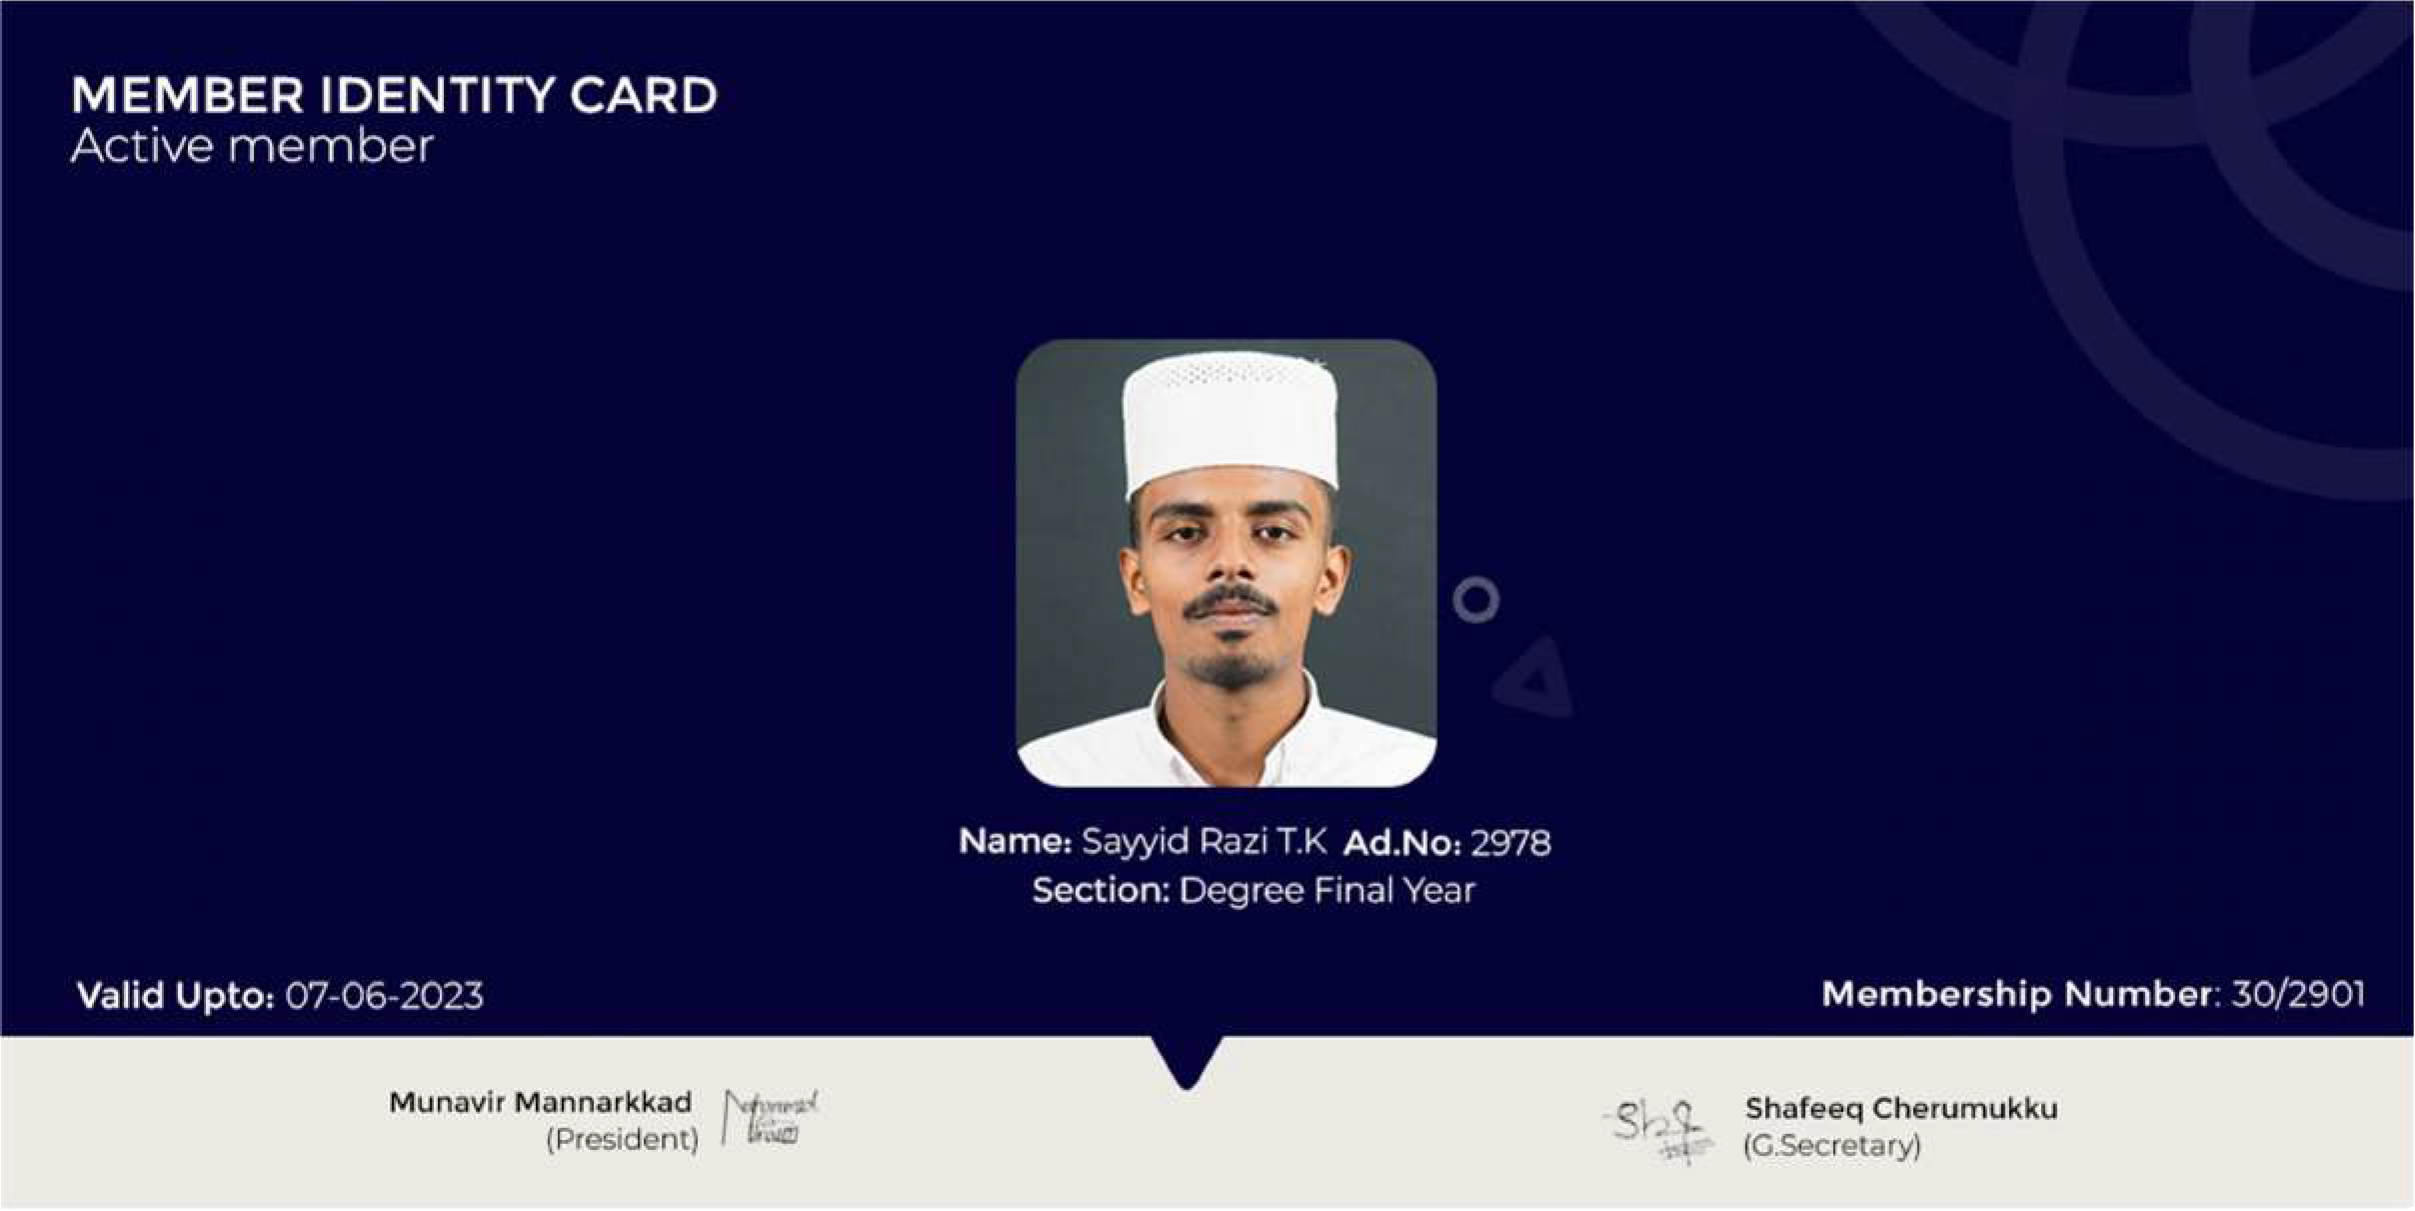
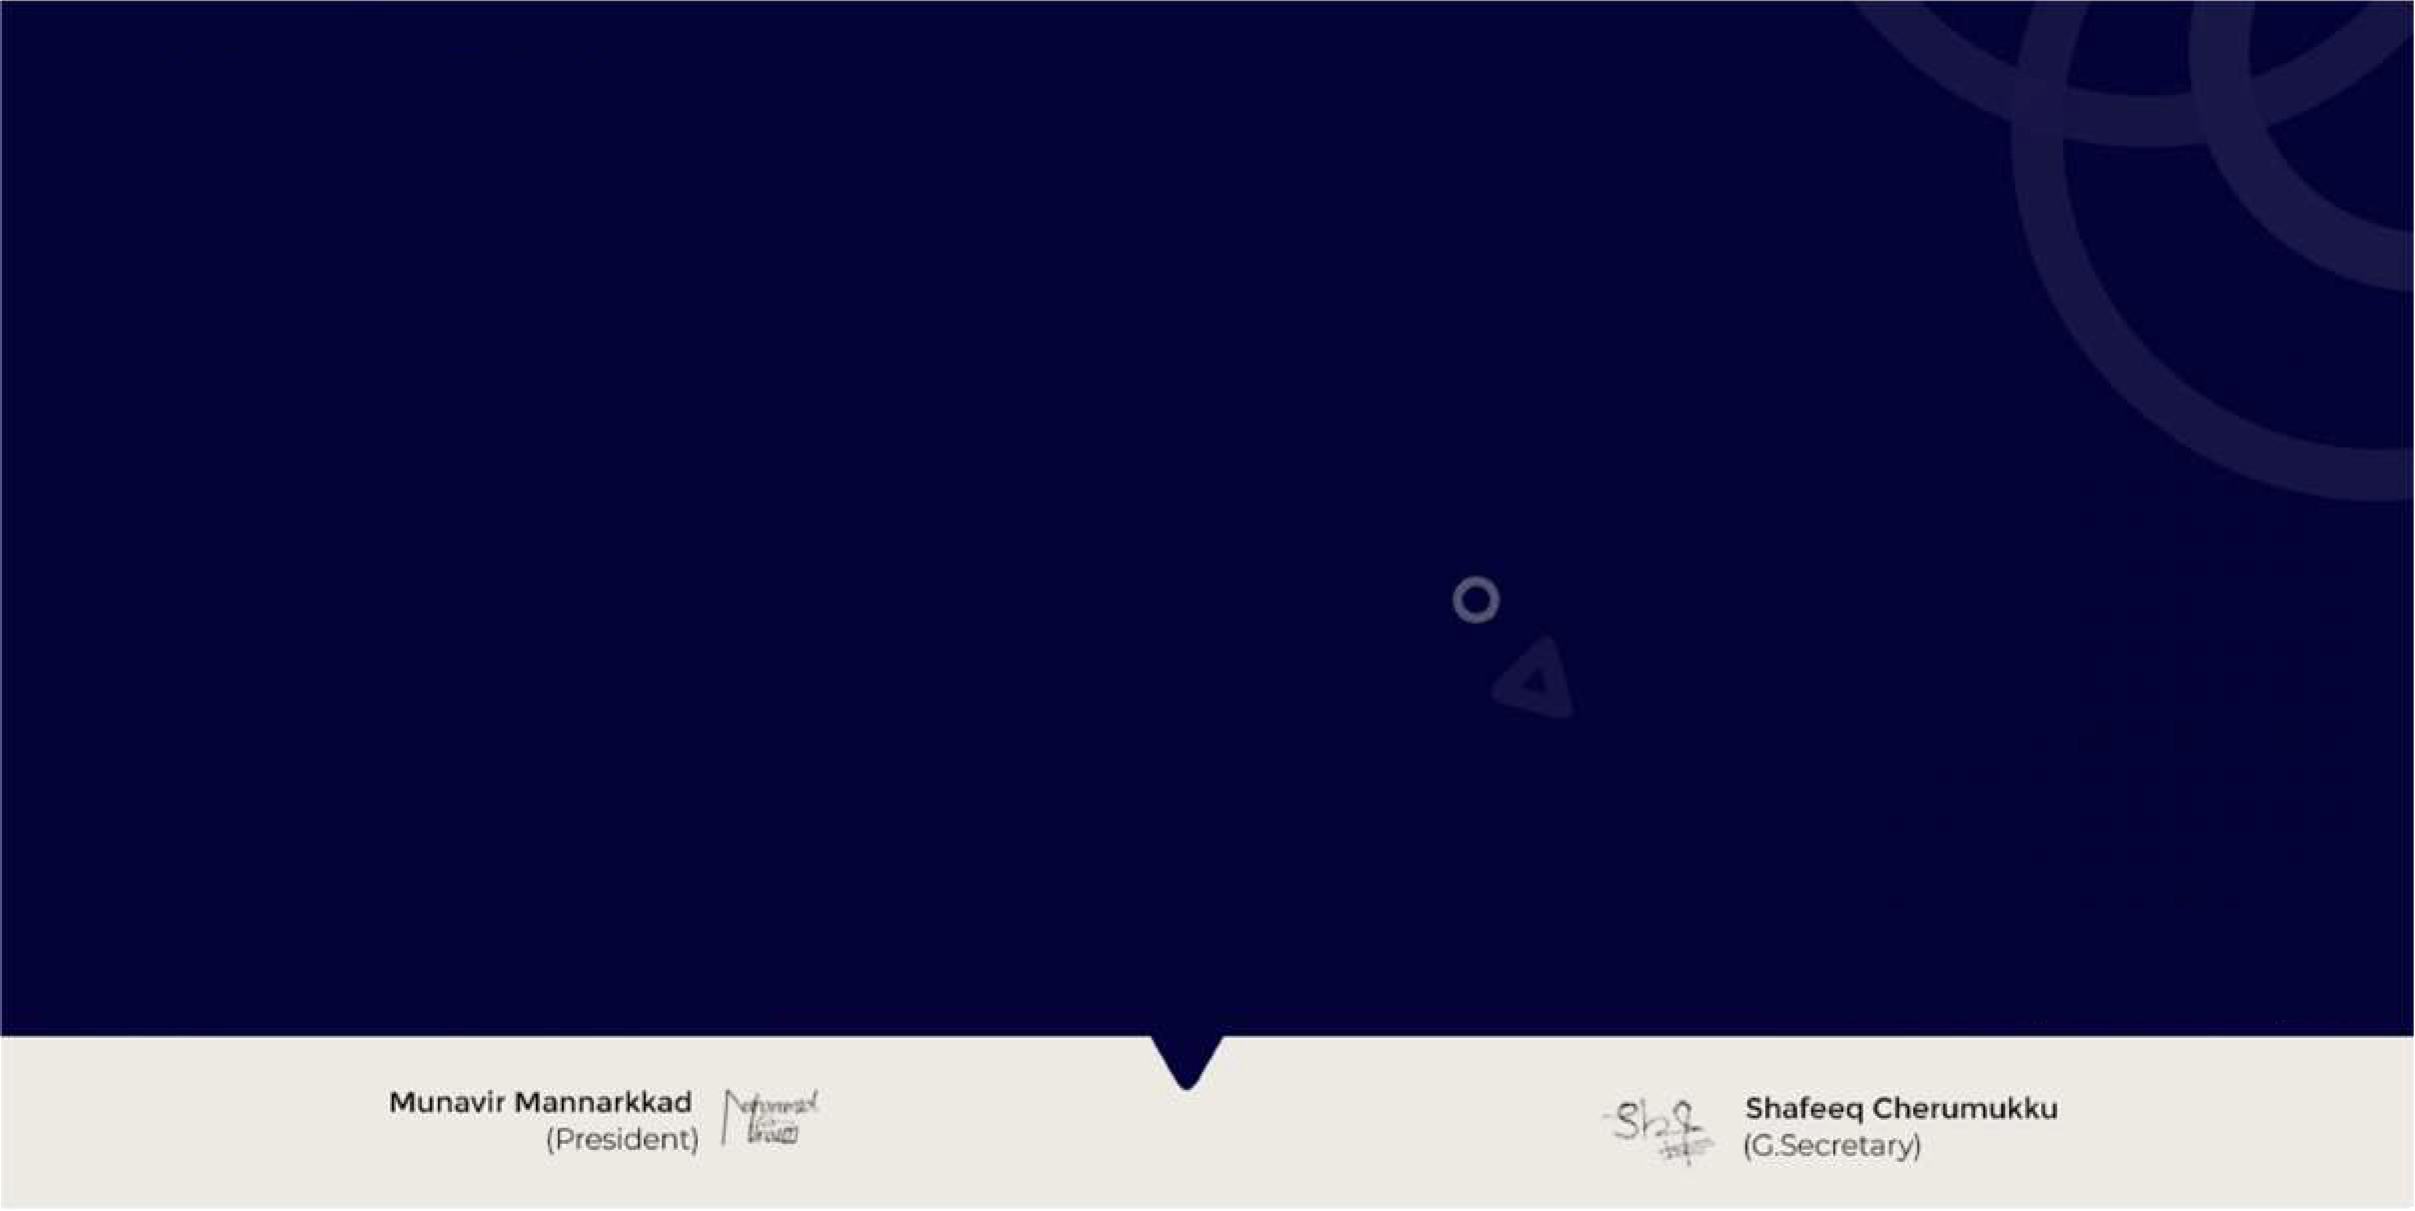
new interface

diff --git a/script.js b/script.js
@@ -57,7 +57,27 @@ const studentData = [
     adno: 3129,
     section: "Degree Second Year",
   },
-  {
+ {
+    name: "Muhammed Mirshad",
+    adno: 3129,
+    section: "Degree Second Year",
+  },  {
+    name: "Muhammed Mirshad",
+    adno: 3129,
+    section: "Degree Second Year",
+  },  {
+    name: "Muhammed Mirshad",
+    adno: 3129,
+    section: "Degree Second Year",
+  },  {
+    name: "Muhammed Mirshad",
+    adno: 3129,
+    section: "Degree Second Year",
+  },  {
+    name: "Muhammed Mirshad",
+    adno: 3129,
+    section: "Degree Second Year",
+  },  {
     name: "Muhammed Mirshad",
     adno: 3129,
     section: "Degree Second Year",
@@ -78,20 +98,26 @@ filterData = (key) => {
   finalData.forEach(({ name, adno, section }) => {
     layout += `
     <div class="id_card">
-    <div class="id_front">
-    <div class="id_data">
-            <div class="id_image" id="image" style="background:black url('./data/img/${adno}.jpg')" alt="Student Image"></div>
-            <p class="name_adno_container">
-              <span class="name_container">Name: <span class="name">${name}</span> </span>
-              <span class="adno_container">Ad.No: <span class="adno">${adno}</span> </span>
-            </p>
-            <p class="data_footer">
-            <p class="section_container">Section: <span class="section">${section}</span> </p>
-            <p class="memNo_container">Membership Number: <span class="memNo">30/${adno}</span> </p>
-            </p>
+        <div class="id_front">
+            <div class="data_header">
+                <p class="heading">Member Identity Card</p>
+                <p class="isActive">Active Member</p>
+            </div>
+            <div class="id_data">
+                <div class="id_image" id="image"
+                    style="background:rgba(255, 255, 0, 0.247) url('./data/img/${adno}.jpg')" alt="Student Image"></div>
+                <p class="name_adno_container">
+                    <span class="name_container">Name: <span class="name">${name}</span> </span>
+                    <span class="adno_container">Ad.No: <span class="adno">${adno}</span> </span>
+                </p>
+                <p class="section_container">Section: <span class="section">${section}</span> </p>
+                <div class="data_footer">
+                    <p class="ValidDate_container">Valid Upto: <span class="section">07-06-2023</span> </p>
+                    <p class="memNo_container">Membership Number: <span class="memNo">30/${adno}</span> </p>
+                </div>
+            </div>
         </div>
-    </div>
-    <div class="id_back"></div>
+        <div class="id_back"></div>
     </div>
     `;
   });

diff --git a/style.css b/style.css
@@ -1,9 +1,9 @@
-@import url('https://fonts.googleapis.com/css2?family=Montserrat:wght@100;300;400;500;600;700&display=swap');
+@import url("https://fonts.googleapis.com/css2?family=Montserrat:wght@100;300;400;500;600;700&display=swap");
 * {
   margin: 0;
   padding: 0;
   box-sizing: border-box;
-  font-family: Montserrat ,sans-serif;
+  font-family: Montserrat, sans-serif;
 }
 /* Header */
 header {
@@ -61,66 +61,92 @@ nav {
   position: sticky;
   top: 30px;
 }
+/* Main */
+main{
+  display: flex;
+  flex-wrap: wrap;
+  justify-content: space-around;
+}
 /* ID Card Design */
 .id_card {
   display: flex;
   justify-content: space-around;
   flex-wrap: wrap-reverse;
   color: white;
-  margin-top: 2px;
-  text-align: center;
+  margin-top: 5 px;
 }
-
 .id_front {
   display: flex;
   /* justify-content: center; */
   flex-direction: column;
   background-image: url("./res/front.jpg");
 }
+.data_header,
+.data_footer {
+  margin: 0 11px;
+}
+.data_header .heading {
+  margin-top: 10px;
+  text-transform: uppercase;
+  font-size: 7.75px;
+  font-weight: 600;
+}
+.data_header .isActive {
+  font-size: 7.5px;
+  font-weight: 300;
+}
+
 .id_image {
   border-radius: 8px;
   height: 71px;
-  width:67px;
-  margin: 53px auto 0 auto;
+  width: 67px;
+  margin: 24.5px auto 0 auto;
   background-size: cover !important;
 }
-.id_data{
-font-size: 5.5px;
-font-weight: 600;
+.id_data {
+  text-align: center;
+  font-size: 5.5px;
+  font-weight: 600;
 }
-.name_adno_container{
+.name_adno_container {
   margin-top: 5px;
 }
-.memNo_container{
-  margin: 10px;
-text-align: right;
-}
-.name,.adno,.section,.memNo{
+.name,
+.adno,
+.section,
+.memNo {
   font-weight: 300;
+}
+.data_footer {
+  display: flex;
+  justify-content: space-between;
+  margin-top: 9px;
 }
 .id_back {
   background-image: url("./res/back.jpg");
+  display: none;
 }
 .id_front,
 .id_back {
   position: relative;
-  background-size: cover  ;
-  height: 5cm;
+  background-size: cover;
   width: 10cm;
+  height: 5cm;
 }
 
 /* Print */
 @media print {
-  @page  
-  { 
-      size: A4 portrait;
-      margin: auto 0;
-      -webkit-print-color-adjust: exact;
+  @page {
+    size: A4 portrait;
+    margin: 5px 0;
   }
   header {
     display: none;
   }
   .id_card {
-    page-break-inside: avoid; 
+    page-break-inside: avoid;
+  }
+  .id_back{
+    display: block;
   }
 }

diff --git a/index.html b/index.html
@@ -23,6 +23,7 @@
         </nav>
 
     </header>
+
     <main>
         <!-- Main Data Will Append Here -->
     </main>
